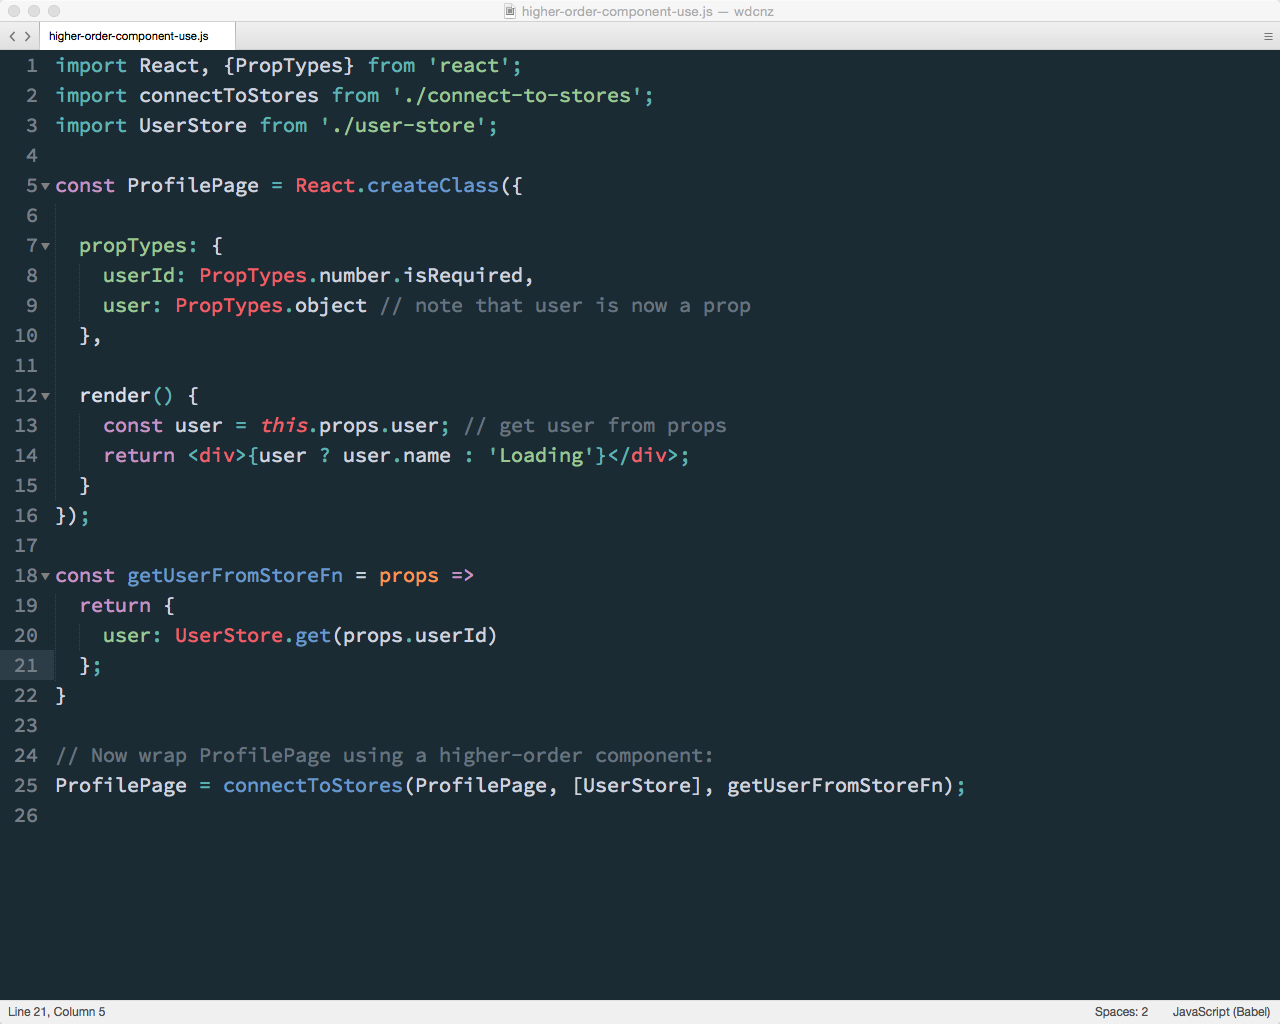
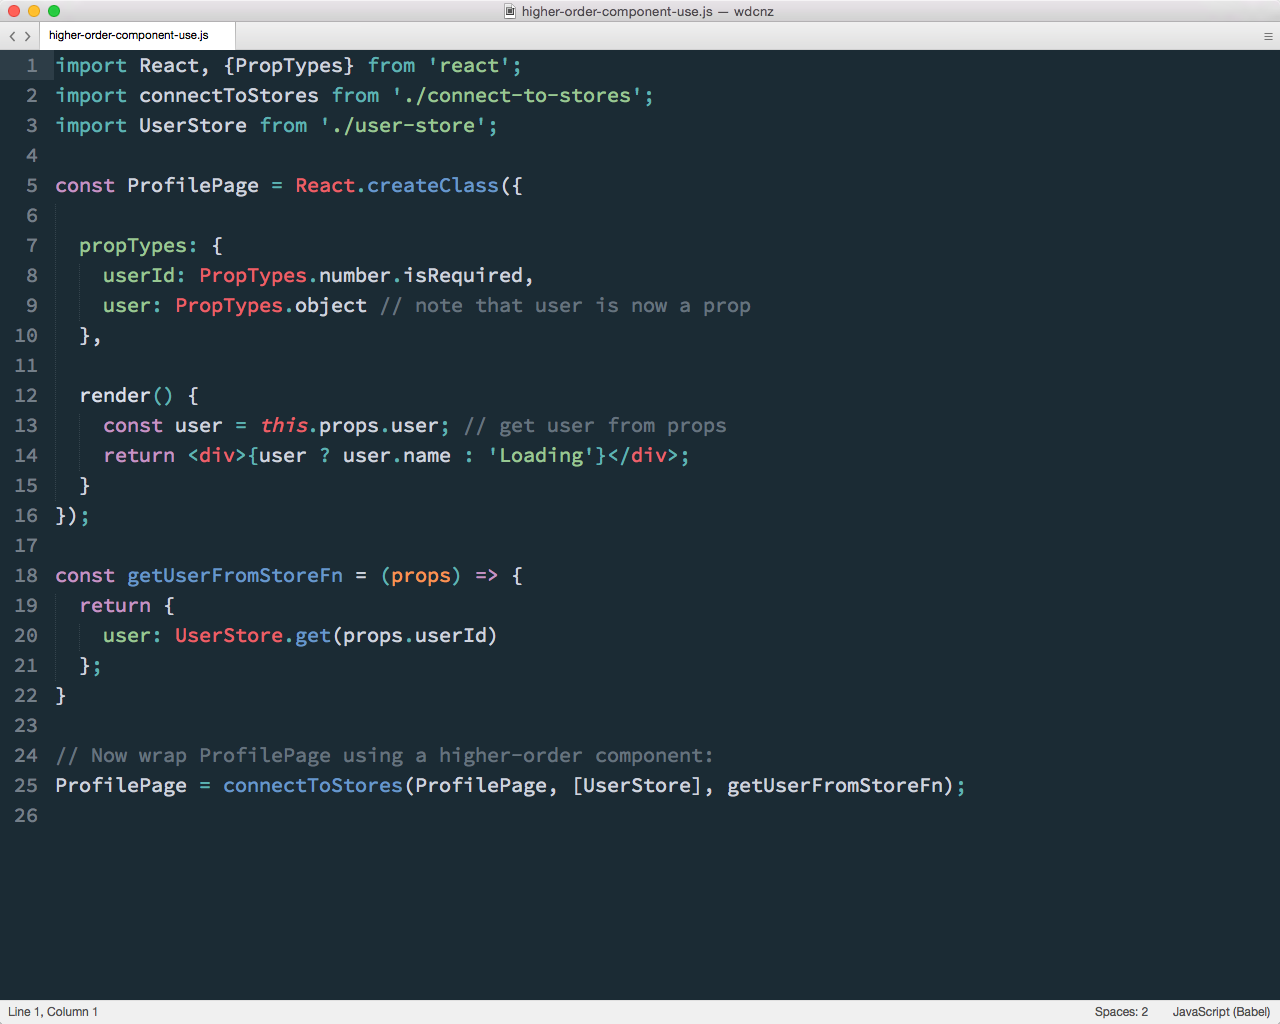
Tweaks

Changed region(s): [[0.0, 0.0, 1.0, 0.0625], [0.2812, 0.5625, 0.375, 0.5938], [0.0312, 0.9688, 0.0938, 1.0]]

diff --git a/code-samples/inheritence.js b/code-samples/inheritence.js
@@ -1,29 +1,22 @@
 import React from 'react';
-import { Node } from '../models';
-import ContainerStore from '../../client/scripts/stores/container';
-import ContainerComponent from './container-component-wrapper.coffee';
 
-module.exports = ({ documentId, containerId }) => {
+class Hello extends React.Component {
+  greeting() {
+    return "Hello";
+  },
+  render() {
+    return (
+      <h1>
+        { this.greeting() } { this.props.name }
+      </h1>
+    );
+  }
+}
 
-    return Node.getActiveByDocumentAndContainer(documentId, containerId)
-    .then((nodes) => {
+class Bonjour extends Hello {
+  greeting() {
+    return "Bonjour";
+  },
+}
 
-      const containerStore = new ContainerStore({
-        id: containerId,
-        nodes,
-        createdAt: new Date()
-      });
-
-      const page = containerStore.getPage();
-      const containerComponent = React.createFactory(ContainerComponent)({
-        containerStore: containerStore
-      });
-
-      return {
-        width: page.properties.w,
-        height: page.properties.h,
-        html: React.renderToString(containerComponent)
-      };
-    });
-
-};
+React.render(<Bonjour name="Le Vim" />, element);

diff --git a/index.html b/index.html
@@ -76,7 +76,7 @@
 					<section data-markdown="slides/04 components/04.md" data-separator-notes="^Note:" data-vertical="^\n---\n$"></section>
 					<section data-markdown="slides/04 components/06.md" data-separator-notes="^Note:" data-vertical="^\n---\n$"></section>
 					<section data-markdown="slides/04 components/07.md" data-separator-notes="^Note:" data-vertical="^\n---\n$"></section>
-					<section data-markdown="slides/04 components/08.md" data-separator-notes="^Note:" data-vertical="^\n---\n$"></section>
+					<!-- <section data-markdown="slides/04 components/08.md" data-separator-notes="^Note:" data-vertical="^\n---\n$"></section> -->
 				</section>
 
 				<!-- Data

diff --git a/code-samples/higher-order-component.js b/code-samples/higher-order-component.js
@@ -7,15 +7,15 @@ export default function connectToStores(Component, ...stores, getStateFromStores
     },
 
     componentDidMount() {
-      stores.forEach(store =>
+      stores.forEach((store) => {
         store.addChangeListener(this.handleStoresChanged)
-      );
+      });
     },
 
     componentWillUnmount() {
-      stores.forEach(store =>
+      stores.forEach((store) => {
         store.removeChangeListener(this.handleStoresChanged)
-      );
+      });
     },
 
     handleStoresChanged() {

diff --git a/code-samples/higher-order-component-use.js b/code-samples/higher-order-component-use.js
@@ -15,7 +15,7 @@ const ProfilePage = React.createClass({
   }
 });
 
-const getUserFromStoreFn = props =>
+const getUserFromStoreFn = (props) => {
   return {
     user: UserStore.get(props.userId)
   };

diff --git a/slides/04 components/03.md b/slides/04 components/03.md
@@ -2,7 +2,7 @@
 ![components](../../images/components.jpg)<!-- .element: width="400" -->
 
 Note:
-One of the biggest shifts in thinking and benefits of React IMO was starting to think about our entire app as tree of discrete modular components, each with well defined inputs and outputs.with 
+One of the biggest shifts in thinking and benefits of React IMO was starting to think about our entire app as tree of discrete modular components, each with well defined inputs and outputs.
 
 ---
 
@@ -10,7 +10,7 @@ One of the biggest shifts in thinking and benefits of React IMO was starting to 
 
 Note:
 
-There's a really great post in the React Docs, which walks you through the process of breaking part of an app up into components, which really made the concept click for me.
+There's a really great post in the React Docs, which walks you through the process of breaking part of an app up into components, which was really useful when internalising this.
 
 ---
 
@@ -19,6 +19,6 @@ There's a really great post in the React Docs, which walks you through the proce
 Note:
 It takes a piece of functionality on a web page, and shows how you decompose it into components, and suss out where the data belongs.
 
-One of the great things about React is that it is very much going with the grain of HTML. Thinking of your app as a hierarchy components seems a logical progression to semantic HTML.
+As you're doing this, it feels very much like you're going with the grain of web technologies, and a logical progression to semantic HTML.
 
 The idea of components isn't new, and React isn't the only UI library which allows you to create them. But we've really natural to work with in React, which allows you to take the concept much further.

diff --git a/slides/04 components/02.md b/slides/04 components/02.md
@@ -1,7 +1,7 @@
 ### Basics
 
 Note:
-So a few little things we learned as we started authoring components.
+So first a few little things we learned as we started authoring components.
 
 ---
 
@@ -16,13 +16,16 @@ Take a breath. It's OK.
 ---
 
 ### It's just JavaScript.
+
 <iframe width="1280px" style="max-width: 1280px; margin-left: -150px;" height="600px" data-src="https://facebook.github.io/react/jsx-compiler.html" />  
 
 
 Note:
 It takes a bit of getting used to, but it makes a lot of sense.
 
-The first thing we tried to do was figure out a way to extract the templates back out to a separate files, which is definitely doable, but misses one of the main benefits of a component based approach - a seperation of concerns is NOT the same as a separation of technologies and having the display logic and generation co-located makes for a much nicer development flow.
+The first thing we tried to do was figure out a way to extract the templates back out to a separate files. This is definitely doable, but misses one of the main benefits of a component based approach — that a seperation of technologies is NOT the same as a separation of concerns.
+
+Having the markup and display logic co-located actually makes for a much nicer development flow.
 
 
 ---
@@ -51,8 +54,6 @@ It's really helpfule when debugging. It's used in Chrome Inspector you saw befor
 
 Note:
 Don't render to body. 
-
-This our bootstrap script that kicks the app off. 
 
 We used to render to body, thinking in made sense for React to manage the whole page, since it was a single page app.
 

diff --git a/slides/04 components/06.md b/slides/04 components/06.md
@@ -57,17 +57,18 @@ We're still using them, but we're considering alternative approaches before crea
 Note:
 An alternate approach that we've come across and started to experiment with is higher order components.
 
-A higher-order component is just a function that takes an existing component and returns another component that wraps it.
+A higher-order component is a function that takes an existing component and returns another component that wraps it. 
 
-It looks a lot like the mixin, but instead of managing the component’s internal state, it wraps the component and passes some additional props to it. This way wrapper’s lifecycle hooks work without any special merging behavior, by the virtue of simple component nesting!
+The functional equivelant of currying.
 
+It looks a lot like the mixin, but instead of accessing the components internal state directly, it wraps it and passed additional properties to it.
 
 ---
 
 <a href="subl://open?url=file:///Users/vim/code/sketches/wdcnz-2015-react-tips-and-tricks/code-samples/higher-order-component-use.js"><img src="../../images/higher-order-component-use.png" style="margin-top: -60px; border: 0;" /></a>
 
 Note:
-It is then used like this.
+And here's how it's applied to a components.
 
 It's elegant, and reminds me very much of the decorator pattern. It does have a couple of trade-offs — wrapping components with multiple concerns becomes difficult, and these higher order components can't (by default) don't have access to a components state, and so require you to add a property layer.
 

diff --git a/slides/02 overview/01.md b/slides/02 overview/01.md
@@ -1,15 +1,11 @@
 ## React in 2 minutes
 
 Note:
-So first up, a quick overview of React.
-
-Who here as heard of React?
+Who here as heard of React before this talk?
 
 Who here has had a play?
 
 Anyone using it in production?
-
-OK, so first a little intro via a few walls of bullet points...
 
 ---
 
@@ -32,8 +28,8 @@ React is A Javascript Library for building user interfaces.
 - `render` markup to a Virtual DOM using JSX
 
 Note:
-The core building in React is a Component, which is somewhat analogous to Controllers and Views (or Views and Templates) depending how you see MVC. 
+The core building in React is a Component, which consist of Logic, and Markup in form of JSX.
 
-Components are instantiated with properties, and store and manipulate state. They define a render method which generates markup and other components using JSX. They also contain the logic for responding to events.
+Components are instantiated with properties, and store and manipulate state.
 
-React is initialized by rendering a top level component into a HTML element. React manages the DOM from this point down, re-rendering with every change via it's Virtual DOM.
+They define a render method which generates markup and other components using JSX for React to render to it's virtual DOM.

diff --git a/slides/01 intro/04.md b/slides/01 intro/04.md
@@ -2,10 +2,12 @@
 > Rethinking best practices
 
 Note:
-So at the time we started building Atomic early last year, I'd had lot's of experience with Backbone, and seen the potential problems of how that scaled. 
+At the time we started building Atomic early last year, I'd had lot's of experience with Backbone, and seen the potential problems of how that scaled. 
 
 I'd also spent some time working with Angular. I enjoyed working with at  a higher level of abstraction via Directives, and thought the two way binding was pretty neat.
 
 But when thinking about building a large and complex app I had concerns about how it might scale, in terms of performance and structure.
 
-Around this time, I started hearing great things about React. I did some digging, and it was a video by Pete Hunt called "Rethinking best practices" really made things click.
+Around this time, I started heard about React. I did some digging, and was initially sceptical. But it was a video by Pete Hunt called "Rethinking best practices" really made things click.
+
+It seemed to offer a sweet spot, with just enough structure and composability to allow you build large and complex apps, and the right control of perfomance. 

diff --git a/slides/01 intro/03.md b/slides/01 intro/03.md
@@ -1,20 +1,17 @@
-## ATOMIC?
+## Atomic?
 
 Note:
-At Atomic, we're building a next-generation tool for people who design UIs
+At Atomic, we're building software for desigers of user interfaces. 
 
-Just to illustrate the types of problems we're trying to solve with React, I'll show you our main app quickly.
+Just to illustrate the types of problems we're trying to solve with React, I'll quickly show you what Atomc is...
 
 ---
 
 <iframe data-src="https://player.vimeo.com/video/120035868?autoplay=0" width="1920" height="607" frameborder="0" webkitallowfullscreen mozallowfullscreen allowfullscreen></iframe>
 
-
 Note:
-- Browser based graphical editor
-- Currently focussed on prototyping and animation
+- At core, it's a browser based graphical editor
+- It let's you quickly put together designs for how a UI might look and work.
+- It's currently focussed on prototyping and animation
 - git inspired version control baked in
-- Farily gnarly technical challenges when solving this
-
-
-
+- And it presents some farily gnarly technical challenges

diff --git a/slides/01 intro/05.md b/slides/01 intro/05.md
@@ -6,14 +6,11 @@
 - Fast
 
 Note:
-It seemed to offer a sweet spot, with just enough structure and composability to allow you build large and complex apps, and the right control of perfomance. So I decided to dive in and start building.
-
-
-- Simple API with small surface area
-- A declarative approach, easier to scale structurally
-- Composability baked in
+In the end we decided to build Atomic in React because was:
+- A simple API with small surface area
+- A declarative composable approach which seemed easier to scale
 - Testable
-- Good out of the box performance
+- And had good performance out of the box
 
 ---
 
@@ -26,6 +23,6 @@ It seemed to offer a sweet spot, with just enough structure and composability to
 7. Everything else!
 
 Note:
-- Quick overview of what we'll cover today
+Here's a quick overview of what we'll cover today
   
 3 minutes

diff --git a/slides/02 overview/02.md b/slides/02 overview/02.md
@@ -1,18 +1,17 @@
 ### Virtual DOM
-- Fast mock DOM
-- Synthetic events
-- Render = 
+- Fast mock DOM API
+- Synthetic events system
+- Render (when state changes):
   1. Build a new Virtual DOM subtree
   2. Diff it with the old one
   3. Compute a miminum set of mutations
   4. Execute against the real DOM
 
 Note:
-- A fast, internal mock DOM 
-- Cross-browser wrapper around the native events
-- On every update, it:
-  1. Builds a new DOM substree
-  2. Diffs it with the old one
-  3. Computes a miminum set of DOM mutations
-  4. Batch executes them
-
+- Fast mock DOM API
+- Synthetic events system
+- Render (when state changes):
+  1. Build a new Virtual DOM subtree
+  2. Diff it with the old one
+  3. Compute a miminum set of mutations
+  4. Execute against the real DOM
